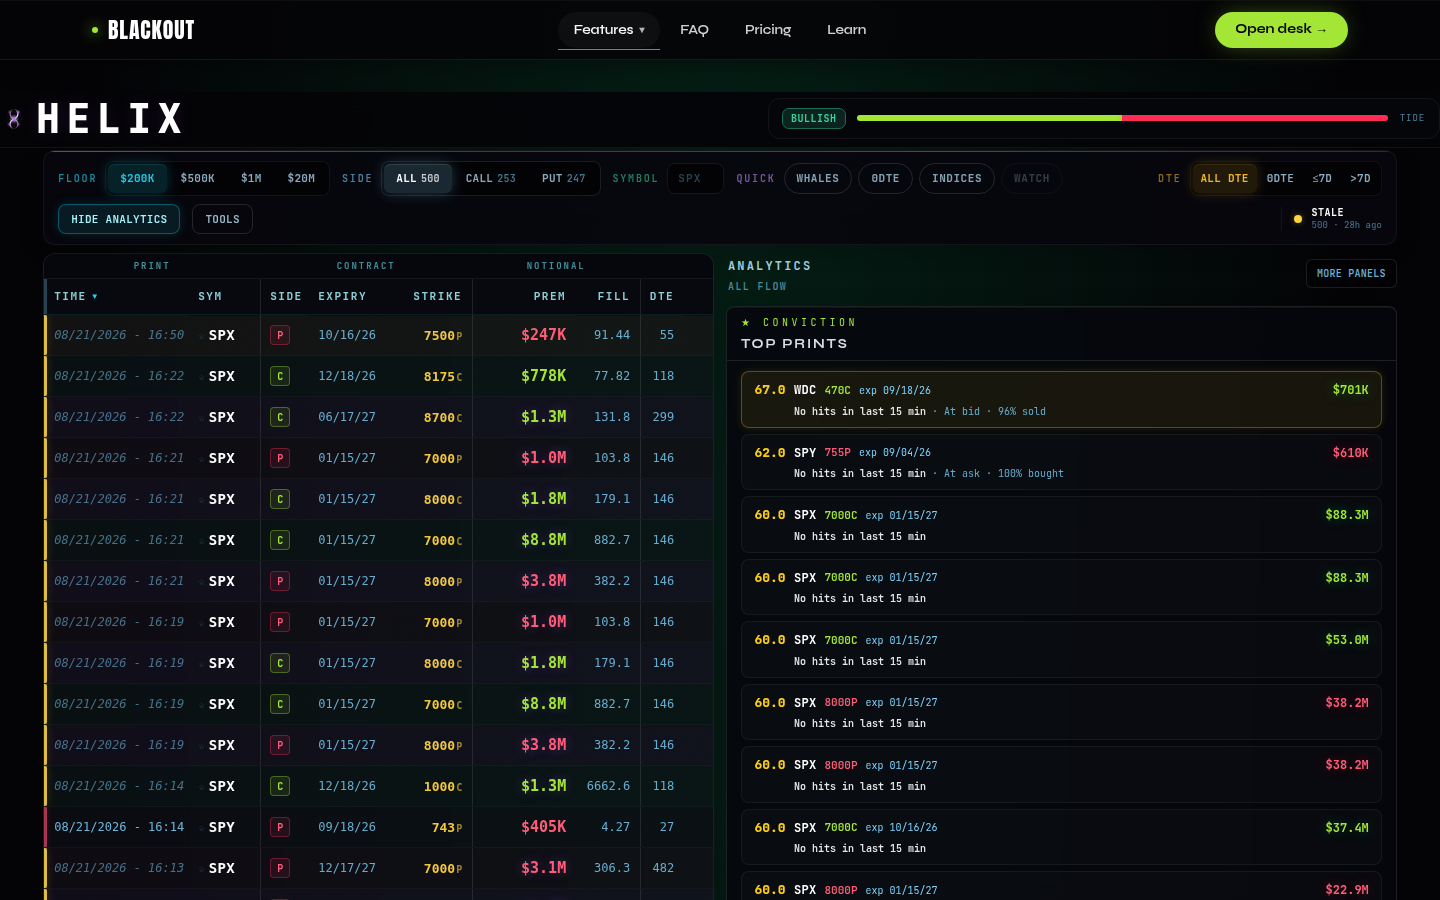
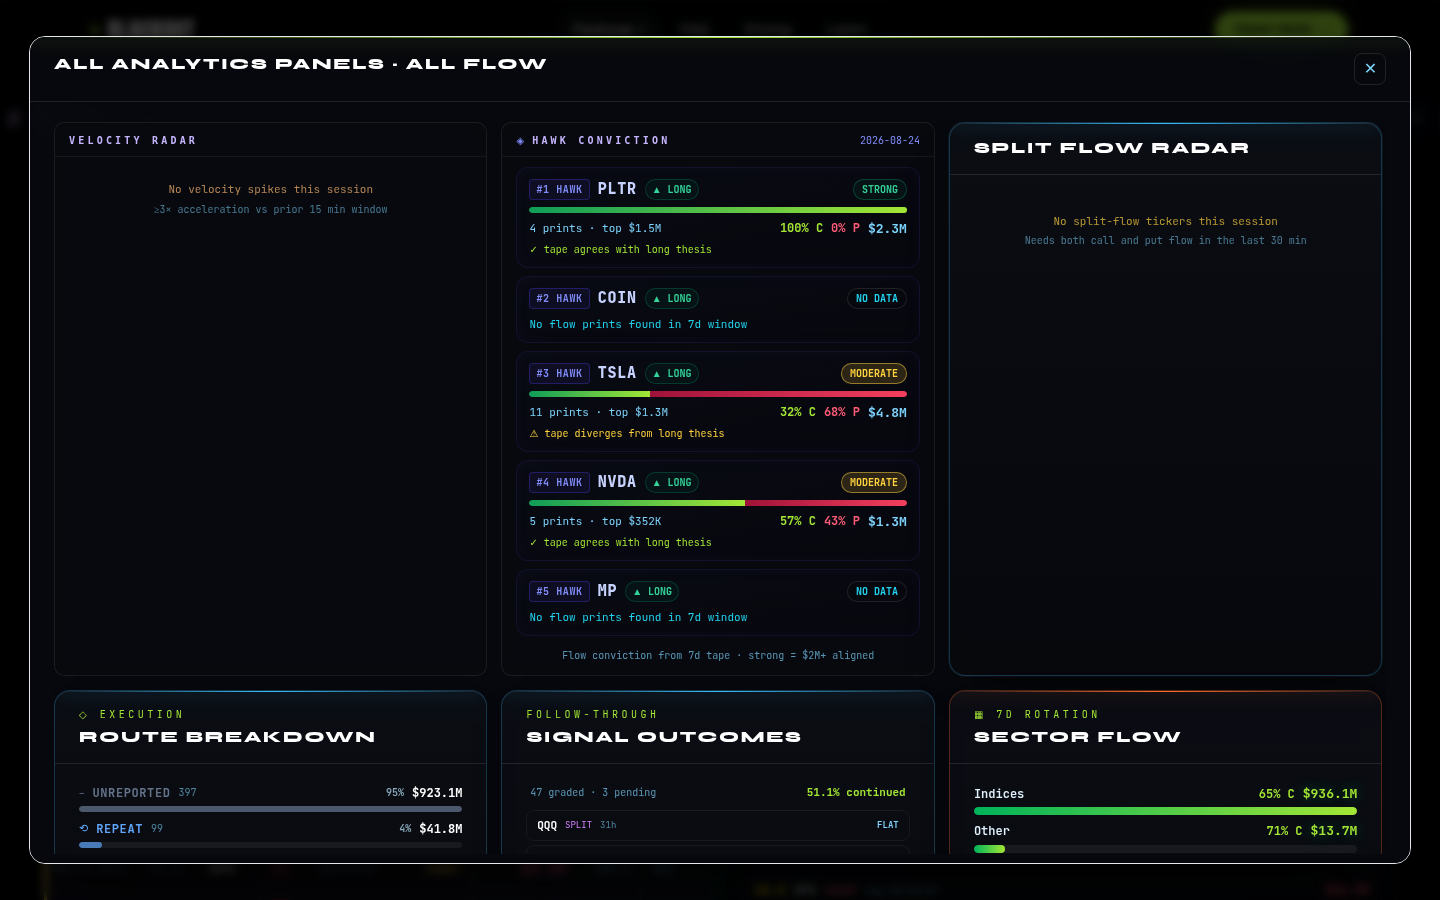
fix(helix): the Rule column showed our own premium bucket where no rule was reported (#2680)
§9.10 in docs/audit/HELIX-MAP.md. Found by reading the live tape DOM while validating §9.4 —
not by reading code, and not findable from either.

SYMPTOM. The tape has a column headed Rule. On a print where UW reported no `alert_rule`, it
rendered the word `stock` or `whale`, one row below a print showing `SWEEP`.

ROOT CAUSE. `HelixFlowTable.tsx:212` read
`flow.alert_rule ? ruleLabel(flow.alert_rule) : flow.route?.slice(0, 8) || "—"`.
`flow.route` is not a rule and not a route. It is our own derived size/tenor bucket, assigned in
`unusual-whales.ts:271` as
`premium >= 1_000_000 ? "whale" : dte == null ? "" : dte <= 0 ? "0dte" : "stock"`.
So the fallback for "UW reported no rule" was a field we compute ourselves out of two columns
already on screen: `whale` restates Prem, `stock`/`0dte` restates DTE. It added no information
while displacing the honest blank.

EVIDENCE. Live production DOM, /flows desktop 1440x900, 2026-08-23, 500 rendered rows read out of
the tape grid (89 requests routed, 0 fail). Rule column vocabulary:
`stock:271 · whale:126 · REPEAT:99 · FLOOR:3 · SWEEP:1` — 397 of 500 rows, 79.4%, showed an
internal bucket name where a member reads execution rules.

WHY IT IS A CONTRADICTION AND NOT ONLY A MISLABEL. §9.8 fixed `executionRouteKey` to return
UNREPORTED for exactly these prints. Live on the same screen, post-deploy, the Route Breakdown
panel reads UNREPORTED 95% while the Rule column beside it shows a value for those same rows. Two
[…]

diff --git a/src/features/helix/lib/helix-flow-format.test.ts b/src/features/helix/lib/helix-flow-format.test.ts
@@ -8,6 +8,7 @@ import {
   fmtExpiryShort,
   fmtFullTimestamp,
   ruleLabel,
+  ruleBadge,
   executionRouteKey,
   fmtIv,
   ALERT_RULE_WORD_KEYS,
@@ -204,4 +205,55 @@ test("flowSignals includes near wall tags", () => {
     {}
   );
   assert.ok(signals.some((s) => s.id === "ncwall"));
+});
+
+// ── The Rule column reports UW's alert_rule, or nothing ────────────────────────────────────────
+// The shipped defect substituted `flow.route` — our own premium/tenor bucket — into a column
+// headed Rule, on 79.4% of the live tape. These pin the substitution shut in both directions.
+
+test("ruleBadge renders the reported rule, matching the badge vocabulary", () => {
+  assert.equal(ruleBadge(flow({ ticker: "NVDA", alert_rule: "sweep_block" })), "SWEEP");
+  assert.equal(ruleBadge(flow({ ticker: "NVDA", alert_rule: "repeated_hits" })), "REPEAT");
+  // REPEAT outranks SWEEP here on purpose: the BADGE leads with the pattern, the PANEL leads with
+  // the mechanism (BADGE_PRECEDENCE vs ROUTE_PRECEDENCE). ruleBadge must inherit the badge order,
+  // not quietly re-collapse the two onto one precedence — the mistake §9.8's first draft made.
+  assert.equal(ruleBadge(flow({ ticker: "NVDA", alert_rule: "RepeatedHitsSweep" })), "REPEAT");
+  assert.equal(executionRouteKey(flow({ ticker: "NVDA", alert_rule: "RepeatedHitsSweep" })), "SWEEP");
+  // An unrecognised rule is still SHOWN — the badge's own documented fallback, unchanged.
+  assert.equal(ruleBadge(flow({ ticker: "NVDA", alert_rule: "ZzzUnknownRule" })), "ZZZUNKNO");
+});
+
+test("ruleBadge reports absence as absence, never the internal route bucket", () => {
+  // Every value `unusual-whales.ts` can assign to `route`, on a print with no reported rule.
+  for (const route of ["whale", "stock", "0dte", ""]) {
+    for (const alert_rule of [null, undefined, "", "   "]) {
+      const got = ruleBadge(flow({ ticker: "SPX", route, alert_rule } as Partial<FlowAlert> & Pick<FlowAlert, "ticker">));
+      assert.equal(got, "\u2014", `route=${JSON.stringify(route)} rule=${JSON.stringify(alert_rule)} must render as absent, got ${got}`);
+    }
+  }
+});
+
+test("ruleBadge and executionRouteKey agree on whether the field is present at all", () => {
+  // The defect was a CONTRADICTION on one screen: the panel said UNREPORTED while the column
+  // showed a value for the same print. Presence must be one fact, not two.
+  const cases: Array<Partial<FlowAlert>> = [
+    { alert_rule: "sweep_block", route: "whale" },
+    { alert_rule: "RepeatedHitsDescendingFill", route: "stock" },
+    { alert_rule: "ZzzUnknownRule", route: "0dte" },
+    { alert_rule: null, route: "whale" },
+    { alert_rule: "", route: "stock" },
+    { alert_rule: "   ", route: "0dte" },
+    { alert_rule: undefined, route: "" },
+  ];
+  for (const c of cases) {
+    const f = flow({ ticker: "SPY", ...c } as Partial<FlowAlert> & Pick<FlowAlert, "ticker">);
+    const columnSaysAbsent = ruleBadge(f) === "\u2014";
+    const panelSaysAbsent = executionRouteKey(f) === "UNREPORTED";
+    assert.equal(
+      columnSaysAbsent,
+      panelSaysAbsent,
+      `Rule column and Route Breakdown disagree on presence for ${JSON.stringify(c)}: ` +
+        `column=${ruleBadge(f)} panel=${executionRouteKey(f)}`
+    );
+  }
 });

diff --git a/src/features/helix/lib/helix-flow-format.ts b/src/features/helix/lib/helix-flow-format.ts
@@ -157,6 +157,44 @@ export function ruleLabel(rule: string): string {
 }
 
 /**
+ * What the tape's **Rule** column shows for one print.
+ *
+ * THE RULE IS: the column reports UW's `alert_rule` or it reports NOTHING. It never substitutes a
+ * different field.
+ *
+ * WHY THIS EXISTS AS A FUNCTION. The column used to read
+ * `flow.alert_rule ? ruleLabel(flow.alert_rule) : flow.route?.slice(0, 8) || "—"`, and
+ * `flow.route` is not a rule, a route, or anything UW reported. It is OUR OWN derived
+ * size/tenor bucket, assigned in `unusual-whales.ts`:
+ * `premium >= 1_000_000 ? "whale" : dte == null ? "" : dte <= 0 ? "0dte" : "stock"`.
+ *
+ * So a print with no reported rule rendered the word `whale` or `stock` in a column headed
+ * **Rule**, one row below a print showing `SWEEP`. Those are not the same kind of claim: `SWEEP`
+ * is how the order filled, reported by UW; `whale` is us restating the Prem column that is already
+ * on screen two columns to the left. A member cannot tell them apart, and the substituted value
+ * carries no information the row does not already show.
+ *
+ * MEASURED (live prod tape, 500 rendered rows, 2026-08-23): the Rule column read
+ * `stock:271 · whale:126 · REPEAT:99 · FLOOR:3 · SWEEP:1` — **397 of 500 rows, 79.4%, showed an
+ * internal bucket name** where a member reads execution rules.
+ *
+ * WHY IT IS A CONTRADICTION AND NOT ONLY A MISLABEL. `executionRouteKey` below was fixed to
+ * return `UNREPORTED` for exactly these prints, because no rule was ever reported for them. Live,
+ * the Route Breakdown panel now says **UNREPORTED 95%** while the Rule column beside it shows
+ * `stock`/`whale` for those same rows. Two readers of one field, disagreeing on screen about
+ * whether the field is present — the same one-field-two-readers pattern as §9.8 (`ruleLabel` vs
+ * `executionRouteKey`) and §9.4 (IV units), arriving a third time.
+ *
+ * Absence is returned as `"—"`, matching every other unmeasured cell in the tape (`fmtIv`,
+ * `fmtSpot`, `score`), so "no rule reported" reads the same as every other honest blank.
+ */
+export function ruleBadge(flow: Pick<FlowAlert, "alert_rule">): string {
+  const raw = flow.alert_rule;
+  if (raw == null || String(raw).trim() === "") return "—";
+  return ruleLabel(String(raw));
+}
+
+/**
  * Bucket for the Route Breakdown panel + Largo's `route_breakdown`, from UW's `alert_rule` —
  * NOT the internal route (whale/0dte/stock).
  *

diff --git a/src/features/helix/components/HelixFlowTable.tsx b/src/features/helix/components/HelixFlowTable.tsx
@@ -26,7 +26,7 @@ import {
   fmtOtm,
   fmtSpot,
   premiumDisplay,
-  ruleLabel,
+  ruleBadge,
   sortFlows,
   type HelixFlowSortDir,
   type HelixFlowSortKey,
@@ -207,11 +207,9 @@ function renderCell(
     case "otm":
       return <span className="helix-tape-muted tabular-nums">{fmtOtm(flow.otm_pct)}</span>;
     case "rule":
-      return (
-        <span className="helix-tape-rule">
-          {flow.alert_rule ? ruleLabel(flow.alert_rule) : flow.route?.slice(0, 8) || "—"}
-        </span>
-      );
+      // Reports UW's alert_rule or nothing — never flow.route, which is our own premium/tenor
+      // bucket and not a rule at all. See ruleBadge's header for the measurement.
+      return <span className="helix-tape-rule">{ruleBadge(flow)}</span>;
     case "score":
       return (
         <span className="helix-tape-score tabular-nums">

diff --git a/docs/audit/findings-staging/2026-08-23-helix-rule-column-route-substitution.md b/docs/audit/findings-staging/2026-08-23-helix-rule-column-route-substitution.md
@@ -1,0 +1,16 @@
+## 2026-08-23 — [FINDING, P2 Helix] The tape's Rule column substituted our own premium bucket for the rule nobody reported — 79.4% of rendered rows — FIXED
+
+> **kind:** `FINDING`
+
+| Field | Detail |
+|---|---|
+| **Symptom** | HELIX's tape has a column headed **Rule**. On a print where UW reported no `alert_rule`, that column rendered the word `stock` or `whale` — one row below a print showing `SWEEP`. A member reading down the column sees two kinds of claim in one vocabulary with nothing distinguishing them, and no indication that for most rows nothing was reported at all. |
+| **Root cause** | `HelixFlowTable.tsx:212` read `flow.alert_rule ? ruleLabel(flow.alert_rule) : flow.route?.slice(0, 8) \|\| "—"`. **`flow.route` is not a rule and not a route.** It is our own derived size/tenor bucket, assigned in `unusual-whales.ts:271`: `premium >= 1_000_000 ? "whale" : dte == null ? "" : dte <= 0 ? "0dte" : "stock"`. So the fallback for "UW reported no rule" was a field we compute ourselves from two columns already on screen — `whale` restates **Prem**, `stock`/`0dte` restates **DTE**. It added no information while displacing the honest blank. |
+| **Evidence** | Live production DOM, `/flows` desktop 1440×900, 2026-08-23, 500 rendered rows read out of the tape grid (89 requests routed, 0 fail). Rule column vocabulary: **`stock:271 · whale:126 · REPEAT:99 · FLOOR:3 · SWEEP:1`** — **397 of 500 rows (79.4%) showed an internal bucket name** where a member reads execution rules. Only 103 rows carried a real reported rule. |
+| **Why it is a contradiction, not only a mislabel** | §9.8 (#2647, merged) fixed `executionRouteKey` to return **`UNREPORTED`** for exactly these prints, because no rule was ever reported for them. Live on the same screen, post-deploy: the Route Breakdown panel reads **`UNREPORTED 95%`** while the Rule column beside it shows `stock`/`whale` for those same rows. Two readers of one field, visibly disagreeing about whether the field is **present**. The §9.8 fix did not cause the defect — it made it visible by finally telling the truth in one of the two places. |
+| **Fix** | New pure `ruleBadge(flow)` in `helix-flow-format.ts`, beside the two existing readers of `alert_rule`, stating the rule once: **the column reports UW's `alert_rule` or it reports nothing.** Absence returns `"—"`, matching every other unmeasured cell in the tape (`fmtIv`, `fmtSpot`, `score`), so "no rule reported" reads exactly like every other honest blank. `HelixFlowTable` calls it; the inline ternary is gone. |
+| **Fix rationale** | Deleted the substitution rather than relabelling the column or inventing an "UNREPORTED" word for it. Relabelling would keep a member-facing column whose content is derivable from two adjacent columns; a new word would make a routeless print look like a *measured* category, which is the absence-as-measurement failure (`_COMMON.md` #7) this lane has now fixed three times. `ruleLabel`'s own documented fallback — show an unrecognised rule's raw text rather than collapsing it — is **unchanged**: a rule we have no word for is still more useful shown than hidden. |
+| **Blast radius** | **One render site.** All four other consumers of `flow.route` were read and deliberately left alone: `TickerDrawer.tsx:41` renders `route === "0dte"` as a badge **labelled 0DTE**, which is an honest tenor claim and the field's correct use; `FlowFeed.tsx:172` uses it as a sort key, never displayed; `RouteBreakdown.tsx`'s `e.route` is the bucket key from `executionRouteKey`, an unrelated value with the same name. `HelixMobileFlowTape.tsx` renders neither field, so mobile never had the defect. |
+| **The pattern, third occurrence tonight** | One HELIX field with two readers that disagreed: `alert_rule` (§9.8 — `ruleLabel` vs `executionRouteKey` knew different words), IV units (§9.4 — the column guessed units per row while Largo's copy did not), and now `alert_rule` again on the presence question. Recorded in `HELIX-MAP.md` as a class rather than three coincidences: **when a field has more than one reader, the readers need a shared, tested statement of what the field means — including what its absence means.** |
+| **Regression guard** | `helix-flow-format.test.ts`, +3 tests. Proven falsifiable rather than assumed: the shipped implementation was restored in place and **2 of the 3 fail on it**, then pass on the fix. They pin (a) the badge vocabulary including that `RepeatedHitsSweep` → `REPEAT` on the badge but `SWEEP` on the panel — the deliberate precedence difference §9.8 preserved, asserted here so a future "simplification" cannot silently re-collapse them; (b) every value `unusual-whales.ts` can assign to `route` (`whale`/`stock`/`0dte`/`""`) crossed with every absent-rule form (`null`/`undefined`/`""`/whitespace) rendering as `"—"`; and (c) that `ruleBadge` and `executionRouteKey` **agree on whether the field is present** — the contradiction itself is now a test. |
+| **Status** | FIXED — **pending live validation.** The Rule column must be observed on production, after this deploys, showing `—` on routeless prints and no `stock`/`whale`/`0dte` value anywhere in that column. |

diff --git a/docs/audit/HELIX-MAP.md b/docs/audit/HELIX-MAP.md
@@ -671,6 +671,27 @@ Fixing the vocabulary matters; fixing the precedence barely does.
 Blast radius: the member panel **and** Largo's `route_breakdown` field, which is currently telling
 the model that 98.8% of institutional flow has an unknown execution route.
 
+**9.10 — The Rule column substituted `flow.route` for the rule nobody reported — FIXED, and it is
+the pattern's third occurrence.** Found post-map, by reading the live tape DOM while validating
+§9.4 — not by reading code. `HelixFlowTable.tsx` rendered
+`flow.alert_rule ? ruleLabel(...) : flow.route?.slice(0, 8) || "—"`, and `flow.route` is not a rule:
+it is our own bucket, `premium >= 1_000_000 ? "whale" : dte <= 0 ? "0dte" : "stock"`. MEASURED
+2026-08-23, 500 rendered rows: `stock:271 · whale:126 · REPEAT:99 · FLOOR:3 · SWEEP:1` — **79.4% of
+the column showed an internal bucket name.** §9.8's fix did not cause this; it made it visible, by
+making the Route Breakdown panel say `UNREPORTED 95%` while the column beside it kept showing a
+value for those same prints. Fixed by `ruleBadge`, which reports UW's `alert_rule` or `"—"`.
+
+**THE PATTERN, recorded as a class rather than three coincidences.** Three findings in this lane are
+the same shape: **one field, two readers, no shared statement of what it means.** §9.8 —
+`ruleLabel` and `executionRouteKey` knew different words for `alert_rule`. §9.4 — the IV column
+guessed units per row while Largo's copy did not. §9.10 — the Rule column and the Route Breakdown
+panel disagreed about whether `alert_rule` was **present at all**. §9.5 was the same shape across a
+product boundary (`bucketLabel` vs `expiryHorizonLabel`). In every case each reader was defensible
+alone and the pair was not, and in every case the guard that fixes it is a test asserting the two
+readers **agree** — not a test of either one. Worth applying forward: when a HELIX field acquires a
+second reader, the question to ask is not "is this reader correct" but "what does this field mean,
+including when it is missing, and do both readers say so."
+
 **9.9 — Style inconsistency, not (currently) a defect.** `detectVelocitySpikes` reads
 `alert.event_at` directly while `detectSplitFlow` uses `flowEventTimeMs`. For rows produced by the
 current REST and SSE paths the two agree, because a row with no `event_at` is always
